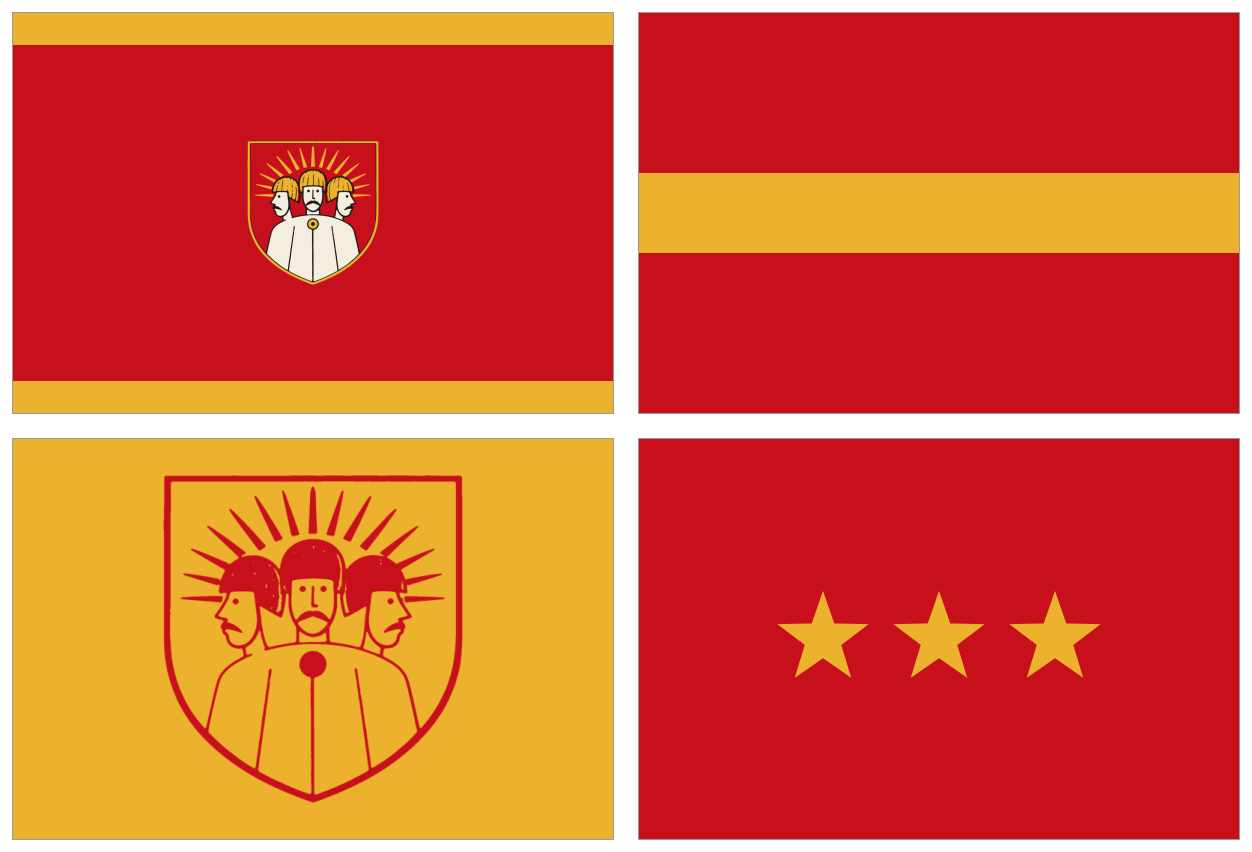
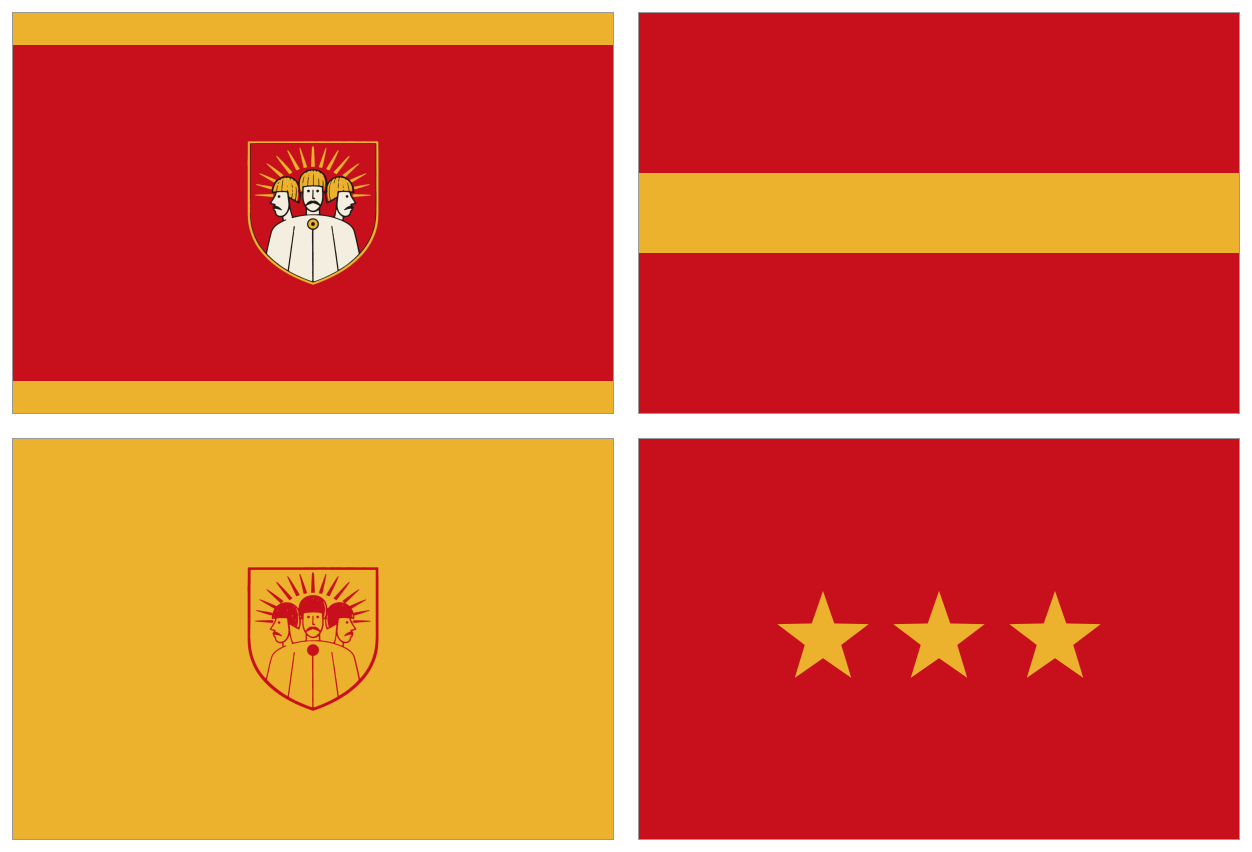
Stodorania kapłani: herb w skali jak na fladze księstwa
Claude-Session: https://claude.ai/code/session_01PNyJEgjZDVeUSFrp2WbnmN

diff --git a/gfx_koncepty/flagi_polabie/generuj_flagi.py b/gfx_koncepty/flagi_polabie/generuj_flagi.py
@@ -43,7 +43,7 @@ F={
  # Stodorania, republika: czerwień ze złotym pasem przez środek, bez godła
  'stodorania_2_republika': svg(f'<rect width="300" height="200" fill="{TR}"/><rect y="80" width="300" height="40" fill="{TG}"/>'),
  # Stodorania, rządy kapłanów Trygława: złote pole, herb na środku
- 'stodorania_3_kaplani': svg(f'<rect width="300" height="200" fill="{TG}"/>'+img(TRYR,TW,TH,150,100,164)),
+ 'stodorania_3_kaplani': svg(f'<rect width="300" height="200" fill="{TG}"/>'+img(TRYR,TW,TH,150,100,72)),
  # Stodorania rewolucyjna: czerwień, trzy złote gwiazdy w rzędzie (trzy głowy Trygława bez bóstwa)
  'stodorania_4_rewolucja': svg(f'<rect width="300" height="200" fill="{TR}"/>'+star(92,100,24,TG)+star(150,100,24,TG)+star(208,100,24,TG)),
 }
